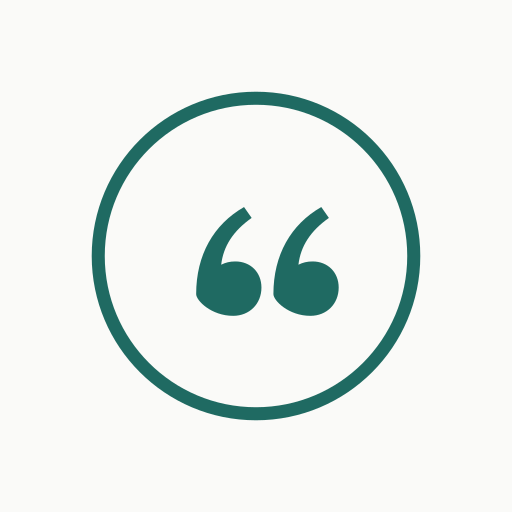
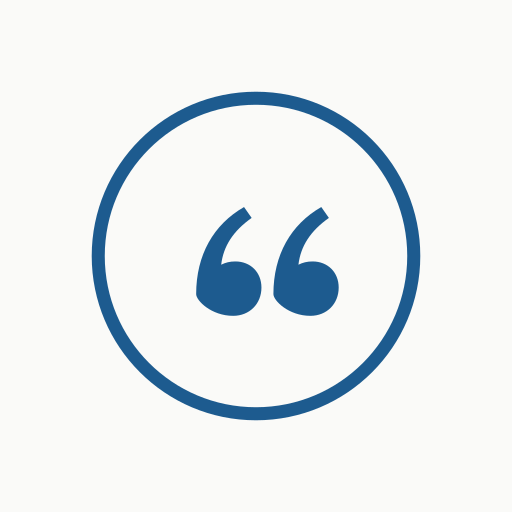
Esquema más azul y versión en los enlaces de CSS y JS

Changed region(s): [[0.1562, 0.1562, 0.8438, 0.8438], [0.375, 0.4062, 0.6562, 0.625]]

diff --git a/assets/site.css b/assets/site.css
@@ -11,14 +11,14 @@
   --muted: #61675f;
   --faint: #8d938a;
   --line: rgba(18, 20, 18, .09);
-  --accent: #1f6a62;
-  --accent-soft: rgba(31, 106, 98, .08);
-  --band: radial-gradient(70rem 36rem at 88% -10%, rgba(126, 214, 192, .28), transparent 60%),
-          radial-gradient(50rem 30rem at 0% 110%, rgba(64, 140, 190, .30), transparent 60%),
-          linear-gradient(135deg, #0c3247 0%, #11505f 52%, #19604f 100%);
+  --accent: #1d5b8f;
+  --accent-soft: rgba(29, 91, 143, .08);
+  --band: radial-gradient(70rem 36rem at 88% -10%, rgba(130, 196, 240, .28), transparent 60%),
+          radial-gradient(50rem 30rem at 0% 110%, rgba(60, 120, 220, .32), transparent 60%),
+          linear-gradient(135deg, #0a2c5e 0%, #0f467f 52%, #146279 100%);
   --band-ink: #ffffff;
   --band-muted: rgba(255, 255, 255, .82);
-  --band-accent: #a7ecd3;
+  --band-accent: #a9dcf7;
   --band-line: rgba(255, 255, 255, .28);
   --on-accent: #ffffff;
   --shadow: 0 1px 2px rgba(18, 20, 18, .04), 0 12px 40px -12px rgba(18, 20, 18, .10);
@@ -42,11 +42,11 @@
     --muted: #a0a69d;
     --faint: #737970;
     --line: rgba(255, 255, 255, .08);
-    --accent: #8fd6c4;
-    --accent-soft: rgba(143, 214, 196, .09);
-    --band: radial-gradient(70rem 36rem at 88% -10%, rgba(126, 214, 192, .18), transparent 60%),
-            radial-gradient(50rem 30rem at 0% 110%, rgba(64, 140, 190, .22), transparent 60%),
-            linear-gradient(135deg, #082433 0%, #0c3b47 52%, #12463b 100%);
+    --accent: #8ec5ef;
+    --accent-soft: rgba(142, 197, 239, .09);
+    --band: radial-gradient(70rem 36rem at 88% -10%, rgba(130, 196, 240, .18), transparent 60%),
+            radial-gradient(50rem 30rem at 0% 110%, rgba(60, 120, 220, .24), transparent 60%),
+            linear-gradient(135deg, #071f45 0%, #0b3462 52%, #0f4a5c 100%);
     --on-accent: #0b0c0b;
     --shadow: 0 1px 2px rgba(0, 0, 0, .3), 0 16px 48px -16px rgba(0, 0, 0, .6);
     --header: rgba(11, 12, 11, .72);
@@ -168,7 +168,7 @@ a:hover > .arrow { transform: translateX(3px); }
 .hero .eyebrow, .band .eyebrow { color: var(--band-accent); }
 .hero em, .band em { color: var(--band-accent) !important; }
 .hero .lead, .band .lead, .band p { color: var(--band-muted); }
-.hero .button, .band .button { background: #fff; color: #0c3247; }
+.hero .button, .band .button { background: #fff; color: #0a2c5e; }
 .hero .button.ghost, .band .button.ghost { background: transparent; color: #fff; box-shadow: inset 0 0 0 1px var(--band-line); }
 .hero .button.ghost:hover, .band .button.ghost:hover { box-shadow: inset 0 0 0 1px #fff; }
 .band .tag { color: #fff; border-color: var(--band-line); }

diff --git a/formaciones/crea-te-a-ti-mismo/index.html b/formaciones/crea-te-a-ti-mismo/index.html
@@ -30,7 +30,7 @@
   <link rel="manifest" href="../../manifest.webmanifest">
   <link rel="preconnect" href="https://fonts.googleapis.com">
   <link rel="preconnect" href="https://fonts.gstatic.com" crossorigin>
-  <link rel="stylesheet" href="../../assets/site.css">
+  <link rel="stylesheet" href="../../assets/site.css?v=11ee1440">
 </head>
 <body>
   <header class="site-header">
@@ -320,6 +320,6 @@
       </div>
     </div>
   </footer>
-  <script src="../../assets/site.js"></script>
+  <script src="../../assets/site.js?v=11ee1440"></script>
 </body>
 </html>

diff --git a/alimentacion/index.html b/alimentacion/index.html
@@ -30,7 +30,7 @@
   <link rel="manifest" href="../manifest.webmanifest">
   <link rel="preconnect" href="https://fonts.googleapis.com">
   <link rel="preconnect" href="https://fonts.gstatic.com" crossorigin>
-  <link rel="stylesheet" href="../assets/site.css">
+  <link rel="stylesheet" href="../assets/site.css?v=11ee1440">
 </head>
 <body>
   <header class="site-header">
@@ -109,6 +109,6 @@
       </div>
     </div>
   </footer>
-  <script src="../assets/site.js"></script>
+  <script src="../assets/site.js?v=11ee1440"></script>
 </body>
 </html>

diff --git a/contacto/index.html b/contacto/index.html
@@ -30,7 +30,7 @@
   <link rel="manifest" href="../manifest.webmanifest">
   <link rel="preconnect" href="https://fonts.googleapis.com">
   <link rel="preconnect" href="https://fonts.gstatic.com" crossorigin>
-  <link rel="stylesheet" href="../assets/site.css">
+  <link rel="stylesheet" href="../assets/site.css?v=11ee1440">
 </head>
 <body>
   <header class="site-header">
@@ -102,6 +102,6 @@
       </div>
     </div>
   </footer>
-  <script src="../assets/site.js"></script>
+  <script src="../assets/site.js?v=11ee1440"></script>
 </body>
 </html>

diff --git a/eventos/index.html b/eventos/index.html
@@ -30,7 +30,7 @@
   <link rel="manifest" href="../manifest.webmanifest">
   <link rel="preconnect" href="https://fonts.googleapis.com">
   <link rel="preconnect" href="https://fonts.gstatic.com" crossorigin>
-  <link rel="stylesheet" href="../assets/site.css">
+  <link rel="stylesheet" href="../assets/site.css?v=11ee1440">
 </head>
 <body>
   <header class="site-header">
@@ -102,6 +102,6 @@
       </div>
     </div>
   </footer>
-  <script src="../assets/site.js"></script>
+  <script src="../assets/site.js?v=11ee1440"></script>
 </body>
 </html>

diff --git a/formaciones/index.html b/formaciones/index.html
@@ -30,7 +30,7 @@
   <link rel="manifest" href="../manifest.webmanifest">
   <link rel="preconnect" href="https://fonts.googleapis.com">
   <link rel="preconnect" href="https://fonts.gstatic.com" crossorigin>
-  <link rel="stylesheet" href="../assets/site.css">
+  <link rel="stylesheet" href="../assets/site.css?v=11ee1440">
 </head>
 <body>
   <header class="site-header">
@@ -112,6 +112,6 @@
       </div>
     </div>
   </footer>
-  <script src="../assets/site.js"></script>
+  <script src="../assets/site.js?v=11ee1440"></script>
 </body>
 </html>

diff --git a/salud/index.html b/salud/index.html
@@ -30,7 +30,7 @@
   <link rel="manifest" href="../manifest.webmanifest">
   <link rel="preconnect" href="https://fonts.googleapis.com">
   <link rel="preconnect" href="https://fonts.gstatic.com" crossorigin>
-  <link rel="stylesheet" href="../assets/site.css">
+  <link rel="stylesheet" href="../assets/site.css?v=11ee1440">
 </head>
 <body>
   <header class="site-header">
@@ -109,6 +109,6 @@
       </div>
     </div>
   </footer>
-  <script src="../assets/site.js"></script>
+  <script src="../assets/site.js?v=11ee1440"></script>
 </body>
 </html>

diff --git a/tienda/index.html b/tienda/index.html
@@ -30,7 +30,7 @@
   <link rel="manifest" href="../manifest.webmanifest">
   <link rel="preconnect" href="https://fonts.googleapis.com">
   <link rel="preconnect" href="https://fonts.gstatic.com" crossorigin>
-  <link rel="stylesheet" href="../assets/site.css">
+  <link rel="stylesheet" href="../assets/site.css?v=11ee1440">
 </head>
 <body>
   <header class="site-header">
@@ -109,6 +109,6 @@
       </div>
     </div>
   </footer>
-  <script src="../assets/site.js"></script>
+  <script src="../assets/site.js?v=11ee1440"></script>
 </body>
 </html>

diff --git a/testimonios/index.html b/testimonios/index.html
@@ -30,7 +30,7 @@
   <link rel="manifest" href="../manifest.webmanifest">
   <link rel="preconnect" href="https://fonts.googleapis.com">
   <link rel="preconnect" href="https://fonts.gstatic.com" crossorigin>
-  <link rel="stylesheet" href="../assets/site.css">
+  <link rel="stylesheet" href="../assets/site.css?v=11ee1440">
 </head>
 <body>
   <header class="site-header">
@@ -96,6 +96,6 @@
       </div>
     </div>
   </footer>
-  <script src="../assets/site.js"></script>
+  <script src="../assets/site.js?v=11ee1440"></script>
 </body>
 </html>

diff --git a/index.html b/index.html
@@ -30,7 +30,7 @@
   <link rel="manifest" href="manifest.webmanifest">
   <link rel="preconnect" href="https://fonts.googleapis.com">
   <link rel="preconnect" href="https://fonts.gstatic.com" crossorigin>
-  <link rel="stylesheet" href="assets/site.css">
+  <link rel="stylesheet" href="assets/site.css?v=11ee1440">
 </head>
 <body>
   <header class="site-header">
@@ -170,6 +170,6 @@
       </div>
     </div>
   </footer>
-  <script src="assets/site.js"></script>
+  <script src="assets/site.js?v=11ee1440"></script>
 </body>
 </html>

diff --git a/tools/build.py b/tools/build.py
@@ -43,6 +43,10 @@ AVISO = ('<strong>Aviso.</strong> Ama tus palabras no es un equipo de personal m
 
 
 
+# Versión de CSS y JS en los enlaces: cambia con su contenido y fuerza a los navegadores a recargarlos
+import hashlib as _h
+VER = _h.sha1(b''.join((R / 'assets' / f).read_bytes() for f in ('site.css', 'site.js'))).hexdigest()[:8]
+
 def mailto(asunto, cuerpo=''):
     from urllib.parse import quote
     q = f'subject={quote(asunto)}' + (f'&amp;body={quote(cuerpo)}' if cuerpo else '')
@@ -100,7 +104,7 @@ def page(path, title, desc, section, body):
   <link rel="manifest" href="{pre}manifest.webmanifest">
   <link rel="preconnect" href="https://fonts.googleapis.com">
   <link rel="preconnect" href="https://fonts.gstatic.com" crossorigin>
-  <link rel="stylesheet" href="{pre}assets/site.css">
+  <link rel="stylesheet" href="{pre}assets/site.css?v={VER}">
 </head>
 <body>
   <header class="site-header">
@@ -132,7 +136,7 @@ def page(path, title, desc, section, body):
       </div>
     </div>
   </footer>
-  <script src="{pre}assets/site.js"></script>
+  <script src="{pre}assets/site.js?v={VER}"></script>
 </body>
 </html>
 '''

diff --git a/tools/og.py b/tools/og.py
@@ -20,7 +20,7 @@ FUENTES = {
 
 K = 2
 W, H = 1200 * K, 630 * K
-INK, MUTED, FAINT, ACCENT = '#ffffff', (255, 255, 255, 214), (255, 255, 255, 150), '#a7ecd3'
+INK, MUTED, FAINT, ACCENT = '#ffffff', (255, 255, 255, 214), (255, 255, 255, 150), '#a9dcf7'
 
 
 def cache(nombre):
@@ -55,8 +55,8 @@ def mark(size, color=ACCENT, bg='none', pad=0.0, rx=0):
 
 
 def fondo():
-    """Degradado azul verdoso como las bandas de la web."""
-    a, b, c = (12, 50, 71), (17, 80, 95), (25, 96, 79)
+    """Degradado azul como las bandas de la web."""
+    a, b, c = (10, 44, 94), (15, 70, 127), (20, 98, 121)
     g = Image.new('RGB', (W, H))
     px = g.load()
     for y in range(0, H, 2):
@@ -163,7 +163,7 @@ def build():
          'Dos días de aprendizaje y naturaleza en favor de tu bienestar físico-emocional. Plazas limitadas.', 'casa', .55)
 
     for s in (180, 192, 512):
-        ic = mark(s, color='#1f6a62', bg='#fafaf8', pad=0.16).convert('RGB')
+        ic = mark(s, color='#1d5b8f', bg='#fafaf8', pad=0.16).convert('RGB')
         ic.save(R / 'assets' / ('apple-touch-icon.png' if s == 180 else f'icon-{s}.png'), optimize=True)
 
 
